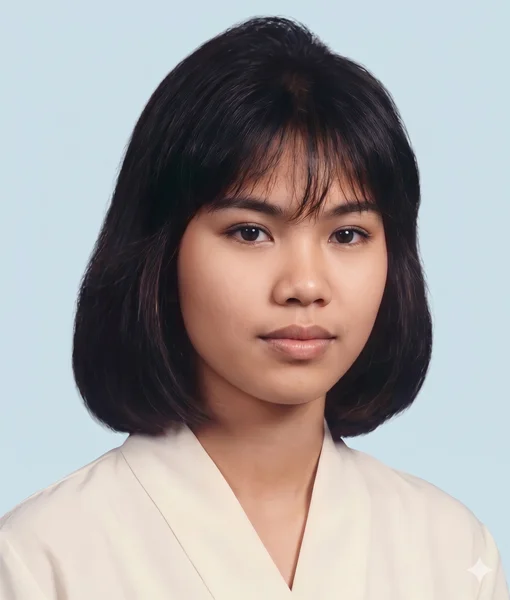
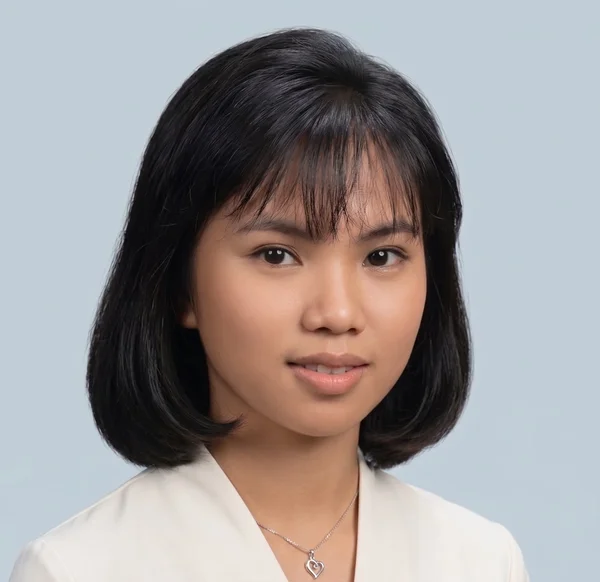
Fix issues

diff --git a/src/app/models.ts b/src/app/models.ts
@@ -367,7 +367,7 @@ export const sections: SectionData[] = [
       { name: 'Anna Merced G. Montana', image: 'students/anna-montana.webp' },
       { name: 'Ma. Suzette A. Ner', image: 'students/suzette-ner.webp' },
       { name: 'Ma. Rachel A. Noble', image: 'students/rachel-noble.webp' },
-      { name: 'Tricia C. Parino', image: 'students/tricia-parino.webp' },
+      { name: 'Tricia C. Pariño', image: 'students/tricia-parino.webp' },
       { name: 'Ma. Margarita C. Platon', image: 'students/margarita-platon.webp' },
       { name: 'Rosemarie E. Pulido', image: 'students/rosemarie-pulido.webp' },
       { name: 'Lydda Ludim V. Ragasa', image: 'students/lydda-ragasa.webp' },
